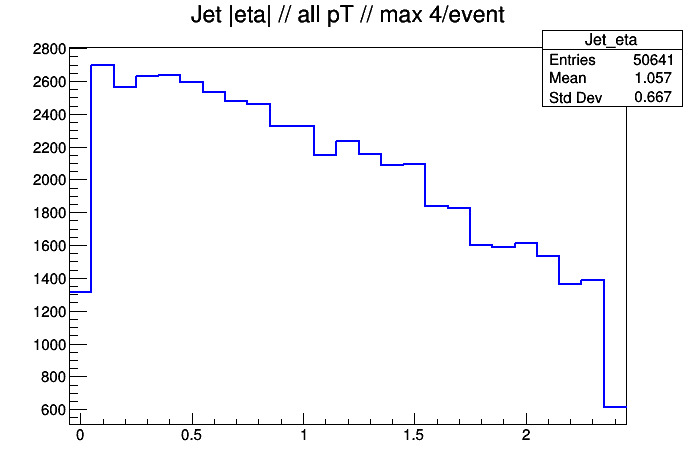
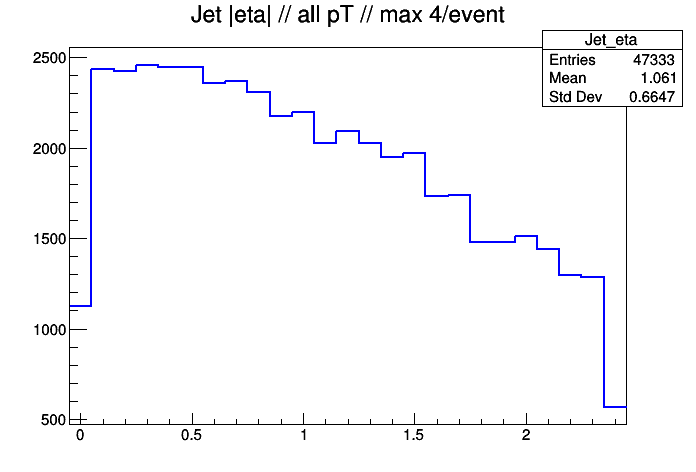
Added jet tracking

diff --git a/snek.py b/snek.py
@@ -130,6 +130,8 @@ def main(batch=0):
     ## Histogram bins: [# of bins, minimum x, maximum x]
     mu_pt_bins = [200, 0, 201]
     indiv_trigger_bins = [3,-0.5,2.5]
+    jet_trigger_bins = [8,-0.,7.5]
+    jet_pt_bins = [200, -0.5,199.5]
     index_bins = [5,-0.5,4.5]
 
     ## Book 1D histograms
@@ -141,7 +143,13 @@ def main(batch=0):
         "h_met": histo('h_met', 'MET;Missing Transverse Energy (Gev);Events; ', [200,0,200]),
         "h_cutflow_mc": histo('h_cutflow_mc', 'Total Events // Events with H->4b muons', [3,-0.5,2.5]),
         "Jet_pt":       histo('Jet_pt',         'Jet pT // |eta| < 2.5 // max 4/event', [150,-1,299]),
-        "Jet_eta":      histo('Jet_eta',        'Jet |eta| // all pT // max 4/event',   [25,-0.05,2.45])
+        "Jet_eta":      histo('Jet_eta',        'Jet |eta| // all pT // max 4/event',   [25,-0.05,2.45]),
+        "Jet1_pt":      histo('Jet1_pt',        'Highest jet pT',       jet_pt_bins),
+        "Jet2_pt":      histo('Jet2_pt',        '2nd Highest jet pT',   jet_pt_bins),
+        "Jet3_pt":      histo('Jet3_pt',        '3rd Highest jet pT',   jet_pt_bins),
+        "Jet4_pt":      histo('Jet4_pt',        '4th Highest jet pT',   jet_pt_bins),
+        "Jet5_pt":      histo('Jet5_pt',        '5th Highest jet pT',   jet_pt_bins),
+        "Jet6_pt":      histo('Jet6_pt',        '6th Highest jet pT',   jet_pt_bins)
     }
     ## Specifically contains plots related to triggers
     trigplots = {
@@ -163,6 +171,10 @@ def main(batch=0):
         "Mu7_ER1p5":    histo('L1_SingleMu7_er1p56',    'L1_SingleMu7_er1p56',      indiv_trigger_bins),
         "HLT_cutflow":  histo('HLT_cutflow',    'All Events//Passed//Mu7_IP4//Mu8_IP3/5/6//Mu9_IP4/5/6//Mu12_IP6', [11,-0.5,10.5]),
         "L1T_cutflow":  histo('L1T_cutflow',    'All Events//Passed//MU7/8/9/10/12/14/16/18_er1p5', [11,-0.5,10.5]),
+        "Njet_pt30":    histo('Njet_pt30',      'All Events//Passed//1/2/3/4/5/6+ jets over 30GeV', jet_trigger_bins),
+        "Njet_pt25":    histo('Njet_pt25',      'All Events//Passed//1/2/3/4/5/6+ jets over 25GeV', jet_trigger_bins),
+        "Njet_pt20":    histo('Njet_pt20',      'All Events//Passed//1/2/3/4/5/6+ jets over 20GeV', jet_trigger_bins),
+        "Njet_pt15":    histo('Njet_pt15',      'All Events//Passed//1/2/3/4/5/6+ jets over 15GeV', jet_trigger_bins)
     }
     indexplots = {
         #"Index2":       histo('Index2',     'Index 2 2.0e34+ZB+HLTPhysics',     index_bins),	
@@ -303,19 +315,32 @@ def main(batch=0):
                     plots["h_mu_pt_eta"].cfill(mu_pt)                
             ## End loop over RECO muons pairs (iMu)
 
-            ## Define jet event trackers
+            ## Begin loop over jets
             goodjets = {}   ## To get the highest key, use max(d); to get the highest value, use max(d, key=d.get)
-            ## Loop over jets
             for iJet in range(len(ch.Jet_pt)):
                 jet_eta = abs(ch.Jet_eta[iJet])
+                jet_phi = ch.Jet_phi[iJet]
                 jet_pt = ch.Jet_pt[iJet]
                 jet_puid = ch.Jet_puId[iJet]
+                badJet = False
+                ## Only accept jets with |eta| < 2.4
                 if (jet_puid is not 0) and (jet_eta < 2.4):
+                    ## Check all our W, Z and A candidates to see if our jet is within dR < 0.2 of them
+                    for i in range(len(muEta)):
+                        if (abs(jet_eta - muEta[i]) < 0.2
+                            ) and ((abs(jet_phi - muPhi[i]) < 0.2) or (abs(jet_phi - muPhi[i]) > 6.22)):
+                            badJet = True        ## This muon comes from something we're not interested in
+                            break
+                    ## If so, skip this jet and move on
+                    if badJet:
+                        continue
+                    ## Check that we're not assigning two jets to the same dictionary entry
                     if jet_pt in goodjets:
                         jet_pt = jet_pt + .0000001
                         if jet_pt in goodjets:
                             print("The seriously statistically improbable has occured - Jet pT collision detected")
                             print jet_pt
+                    ## Fill the dictionary with the jet
                     goodjets[jet_pt] = jet_eta
 
             ## Fill cut flow plots based on what was passed (order matters)
@@ -381,13 +406,19 @@ def main(batch=0):
 
             ## Begin Jet analysis
             i = 0
-            while (i in range(4)) and (goodjets):
+            while (goodjets):## and (i in range(4)):
                 jpt = max(goodjets)
                 jeta = goodjets.pop(jpt)
-                if jeta < 2.4:
+                if i < 4:
                     plots['Jet_pt'].cfill(jpt)
                     plots['Jet_eta'].cfill(jeta)
-                    i = i + 1
+                if i < 6:
+                    plots["Jet"+str(i+1)+'_pt'].cfill(jpt)
+                if not goodjets:
+                    for j in [15,20,25,30]:
+                        if jpt > j:
+                            trigplots['Njet_pt'+str(j)].cfill(i+2)
+                i = i + 1
         ## End loop over events in chain (jEvt)
     ## End loop over chains (ch)
 
